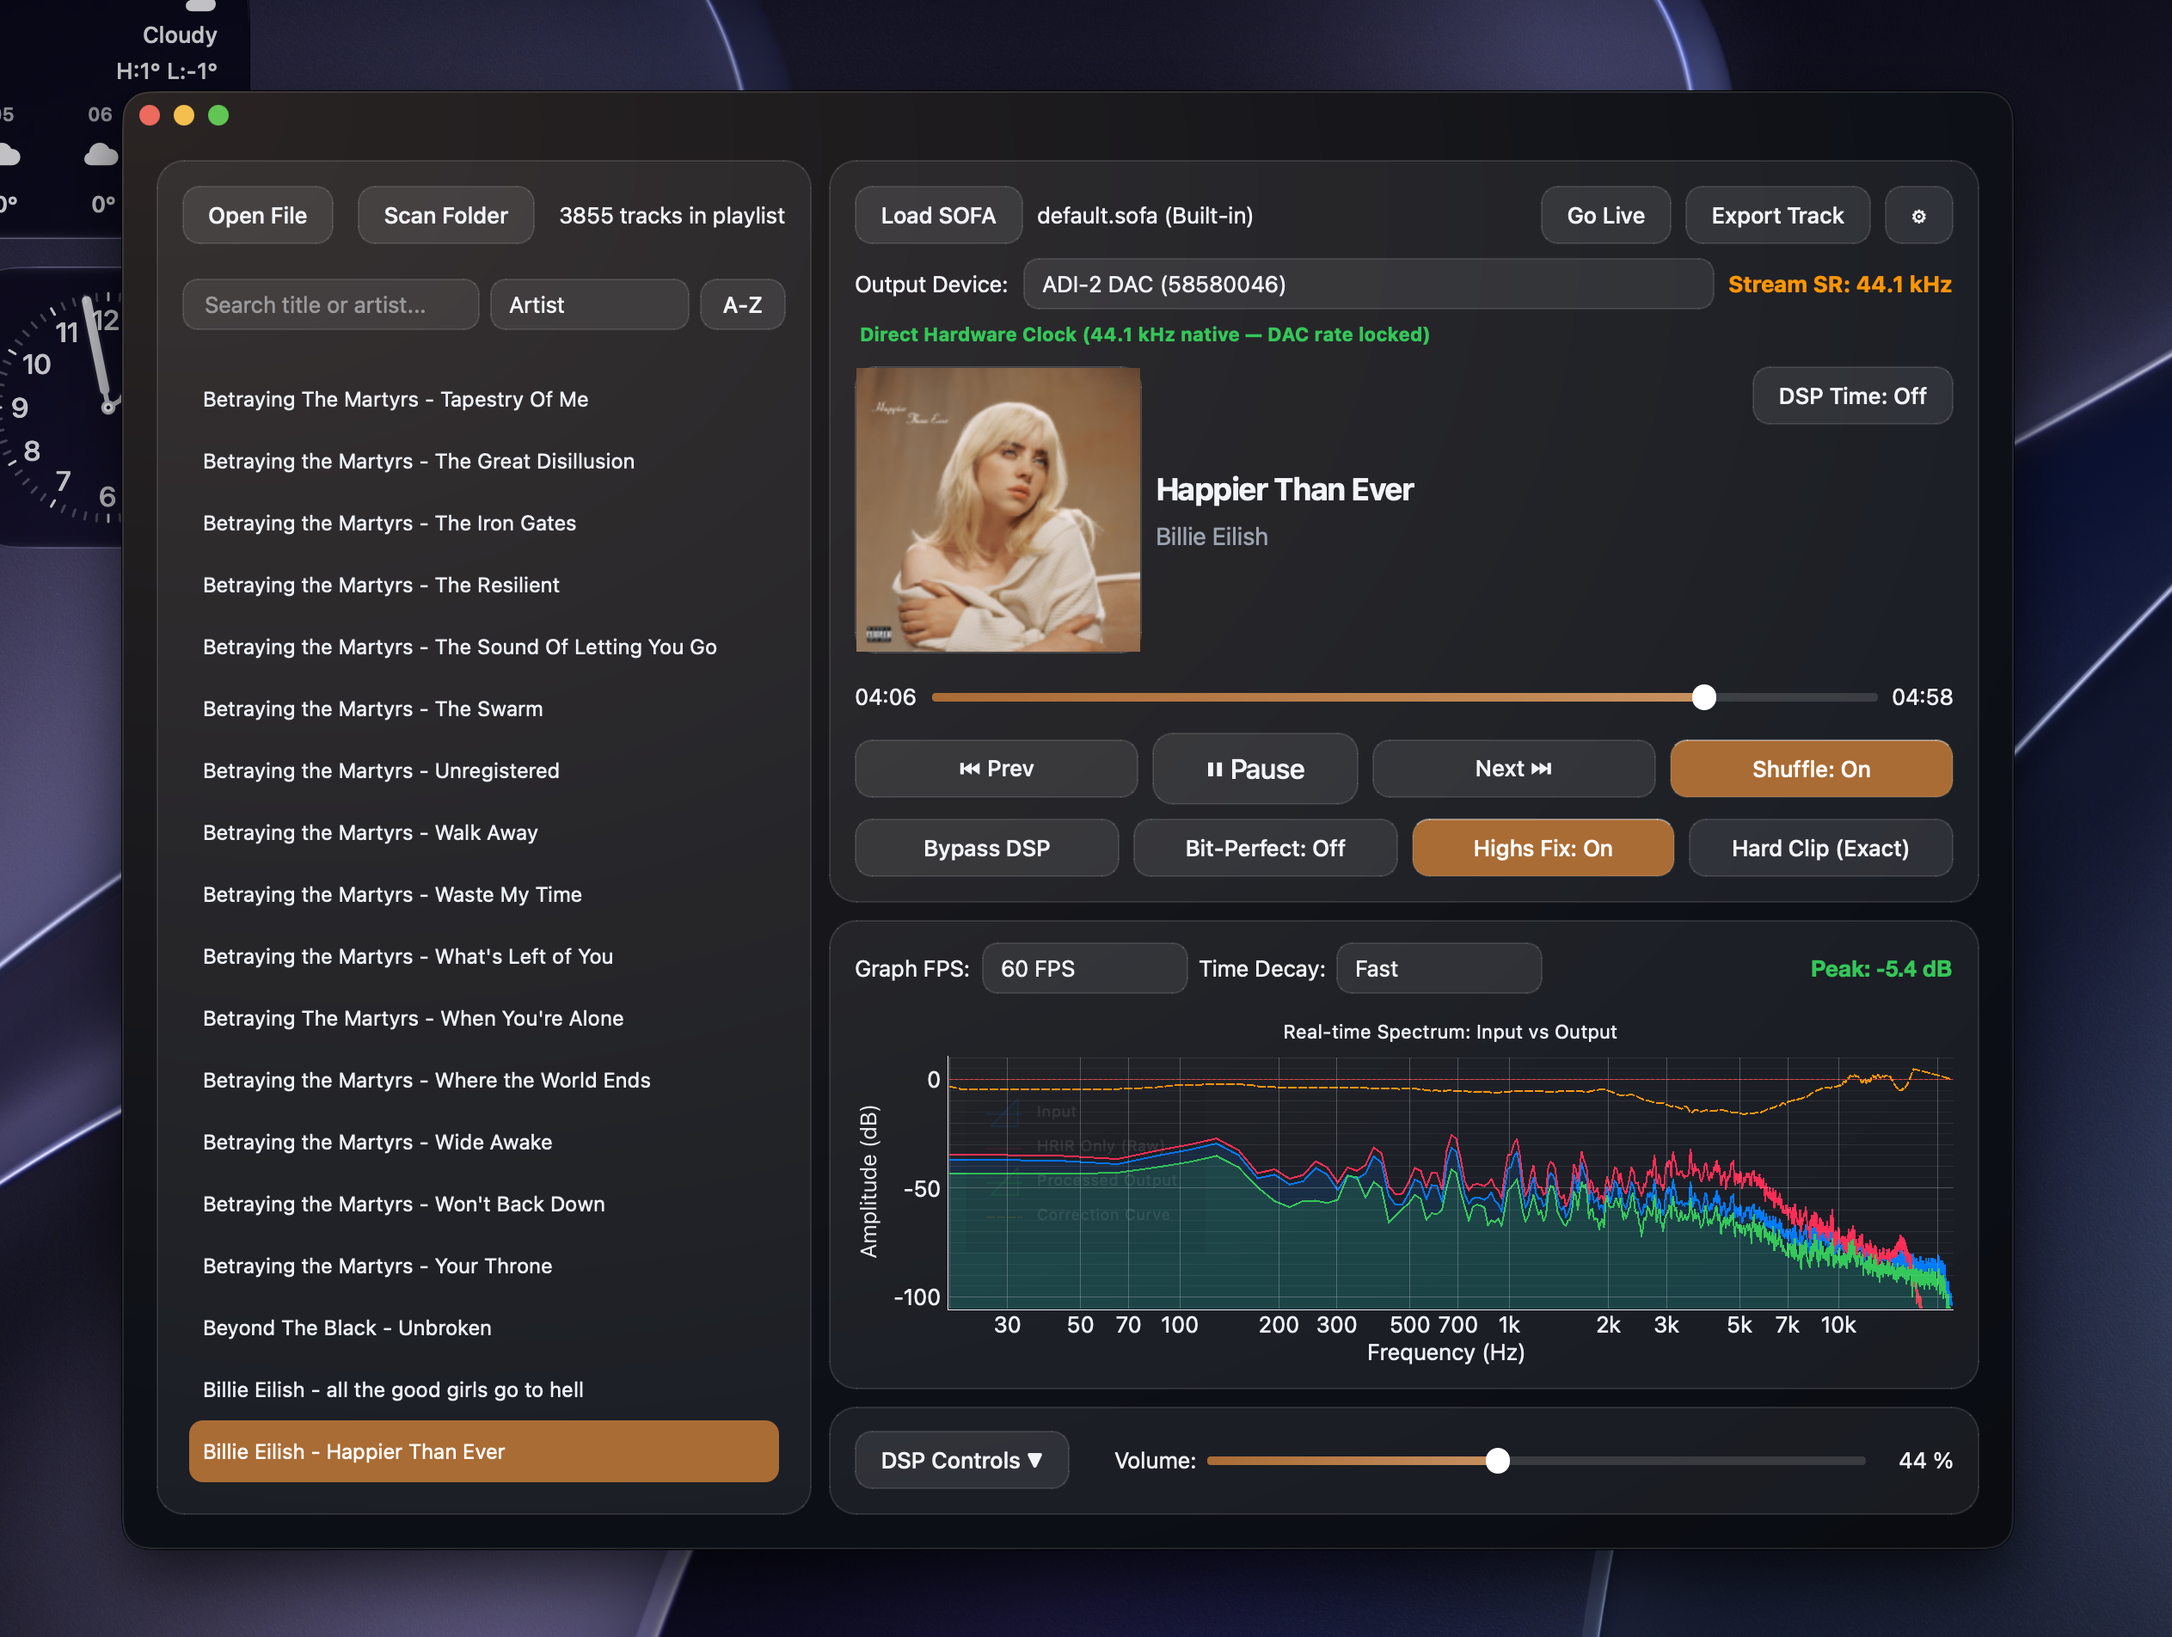
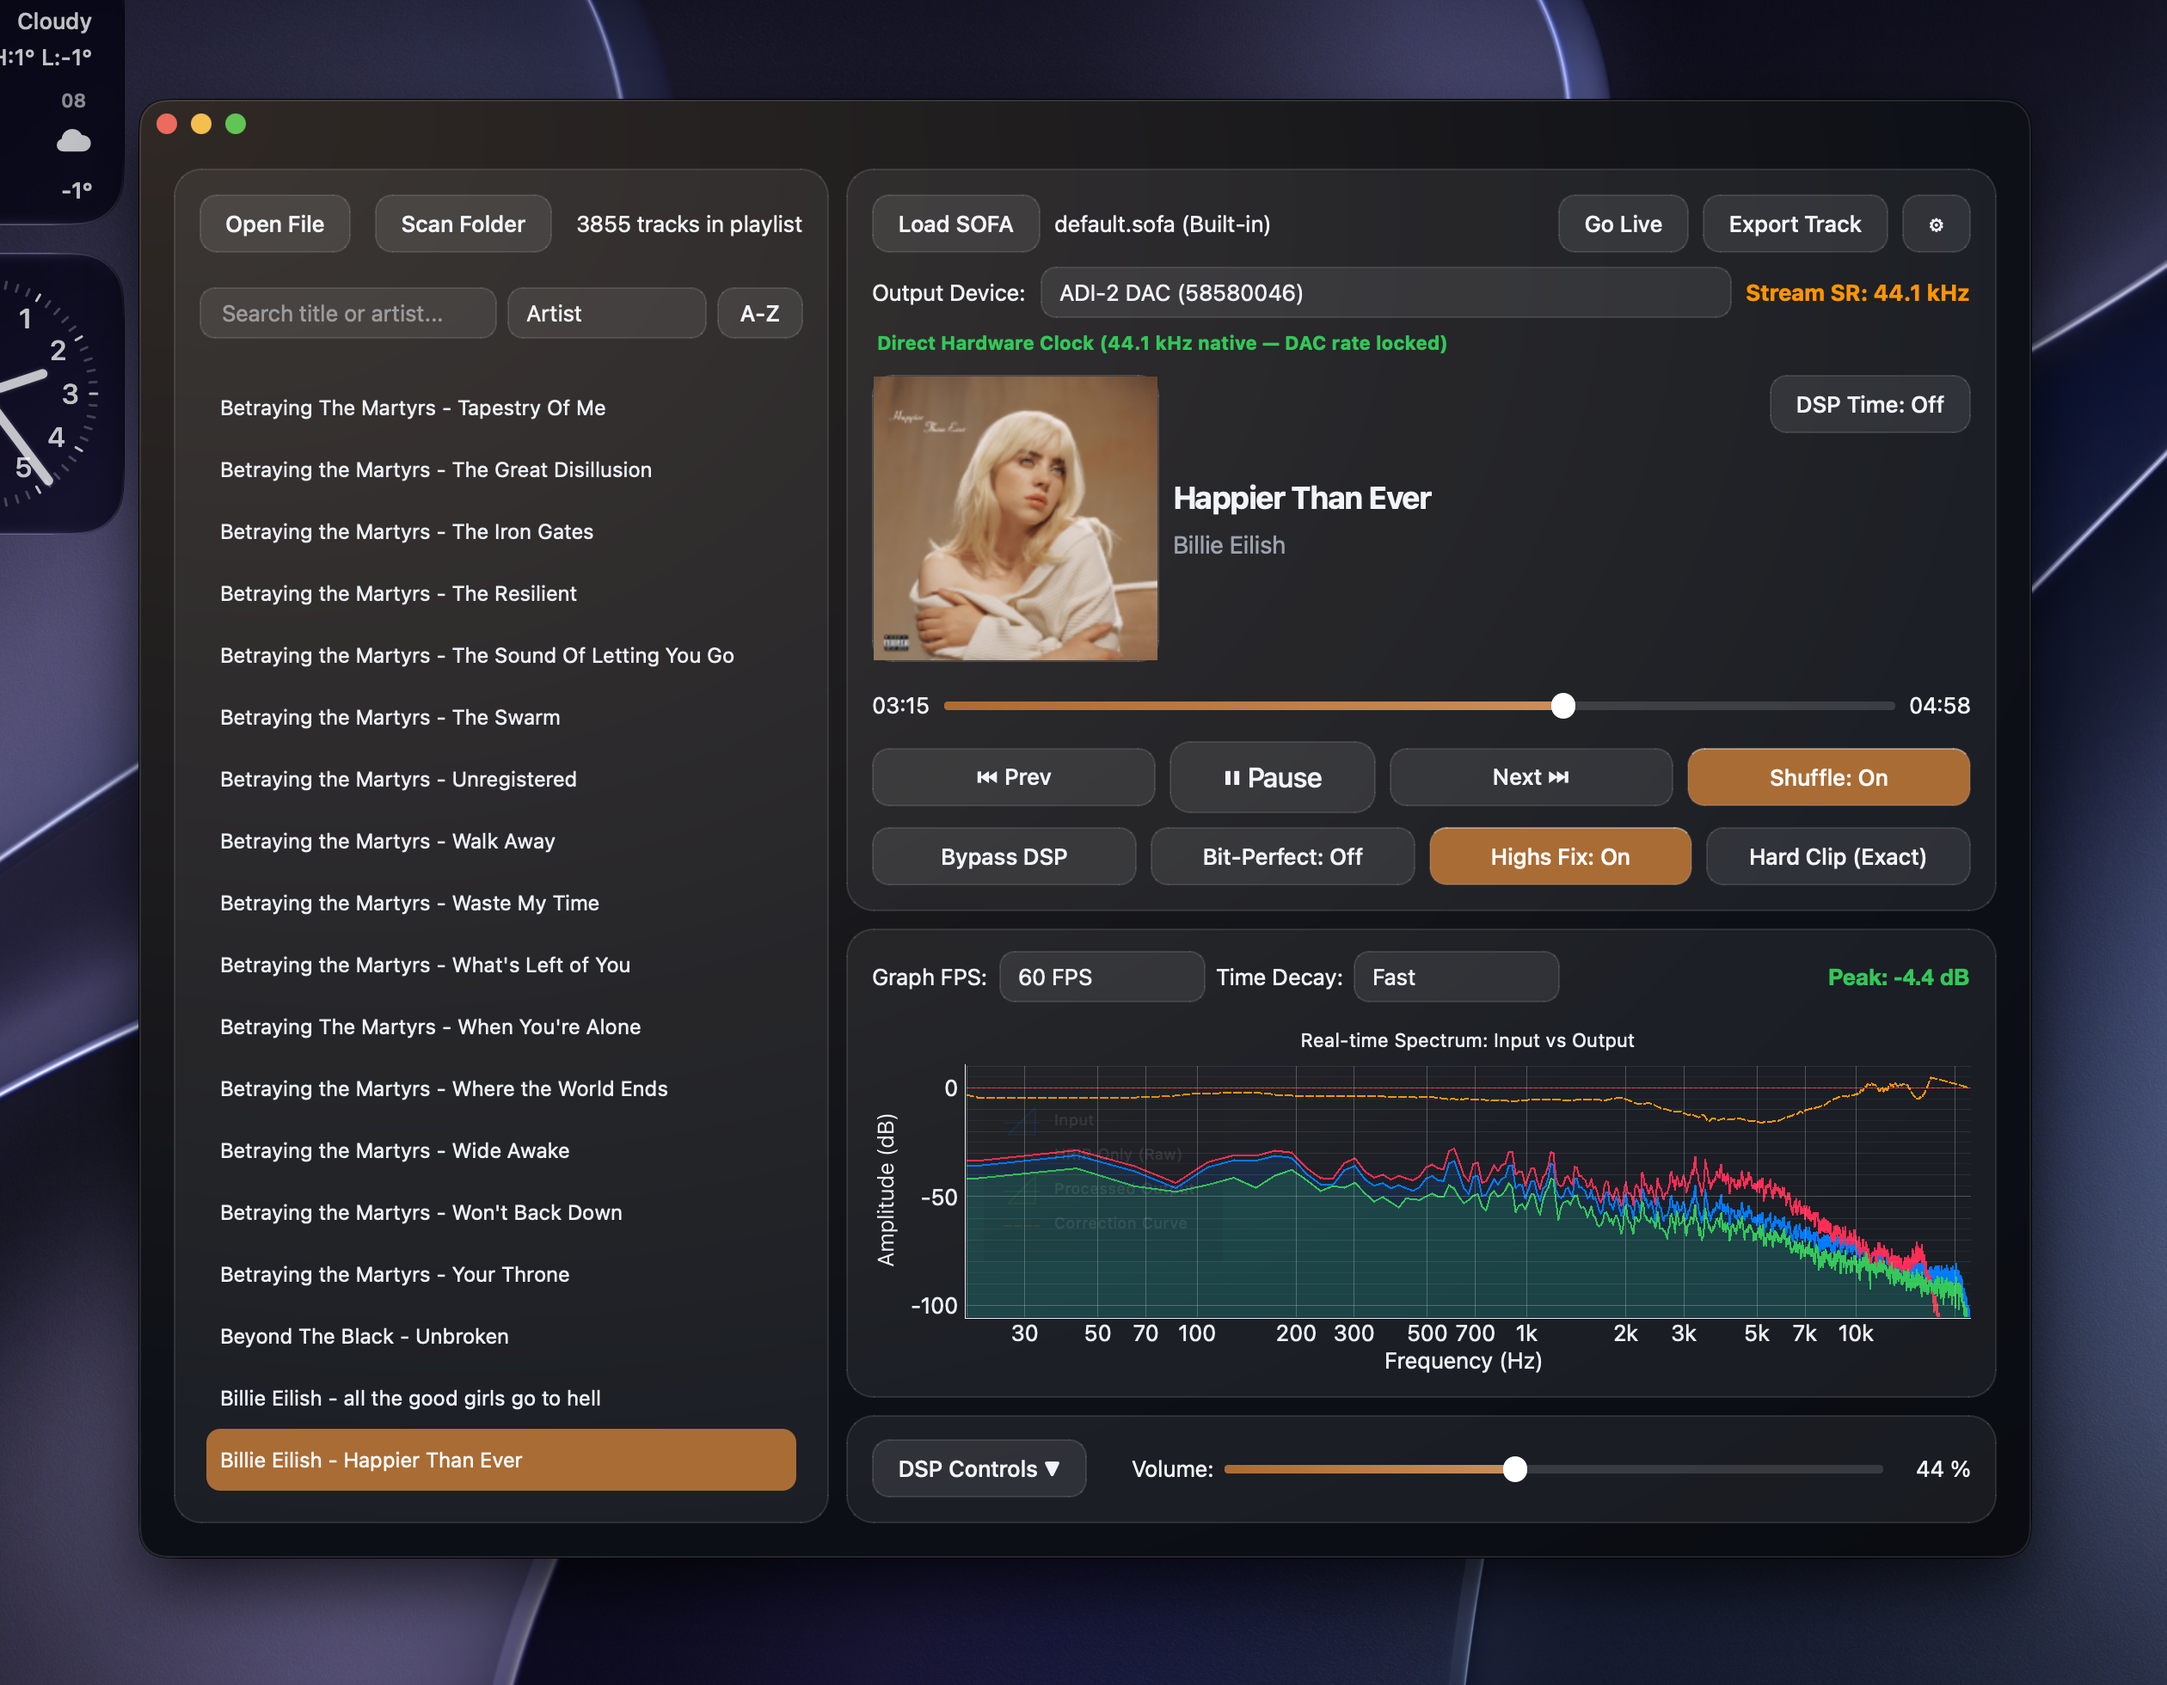
docs: update 3-theme preview screenshots and label Liquid Glass

diff --git a/README.md b/README.md
@@ -4,7 +4,10 @@
 
 A zero-echo, real-time **HRTF (Head-Related Transfer Function)** binaural desktop audio player powered by a native **Rust** DSP backend (`hrtf_core`) and a **Python (PySide6)** interface.
 
-![REXA Liquid Glass](docs/preview-glass.png)
+| Liquid Glass |
+
+| :---: |
+| ![Liquid Glass Theme](docs/preview-glass.png) |
 
 | Classic (Dark) | Light |
 | :---: | :---: |
